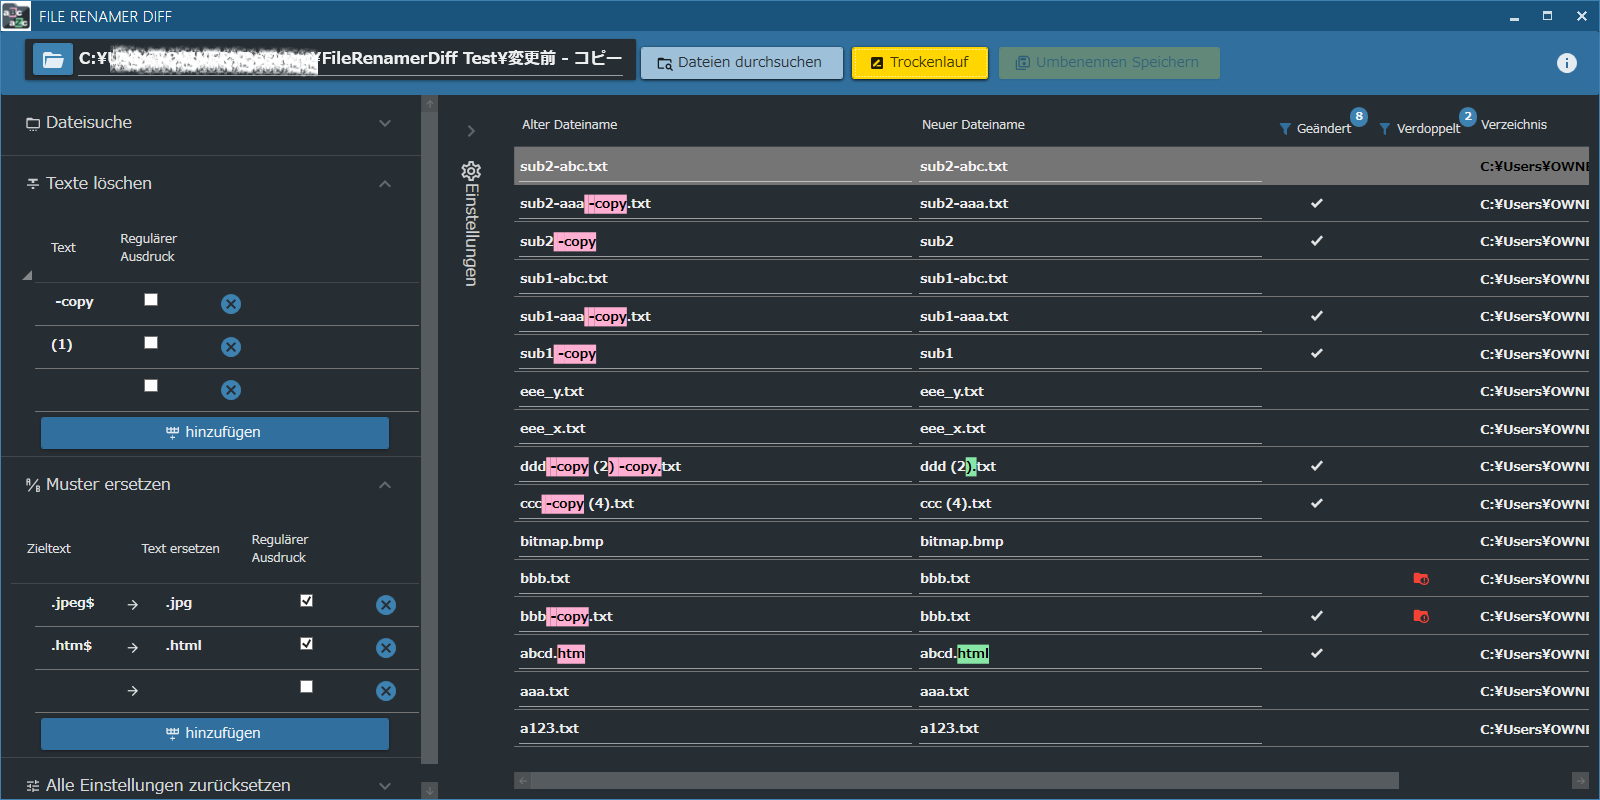
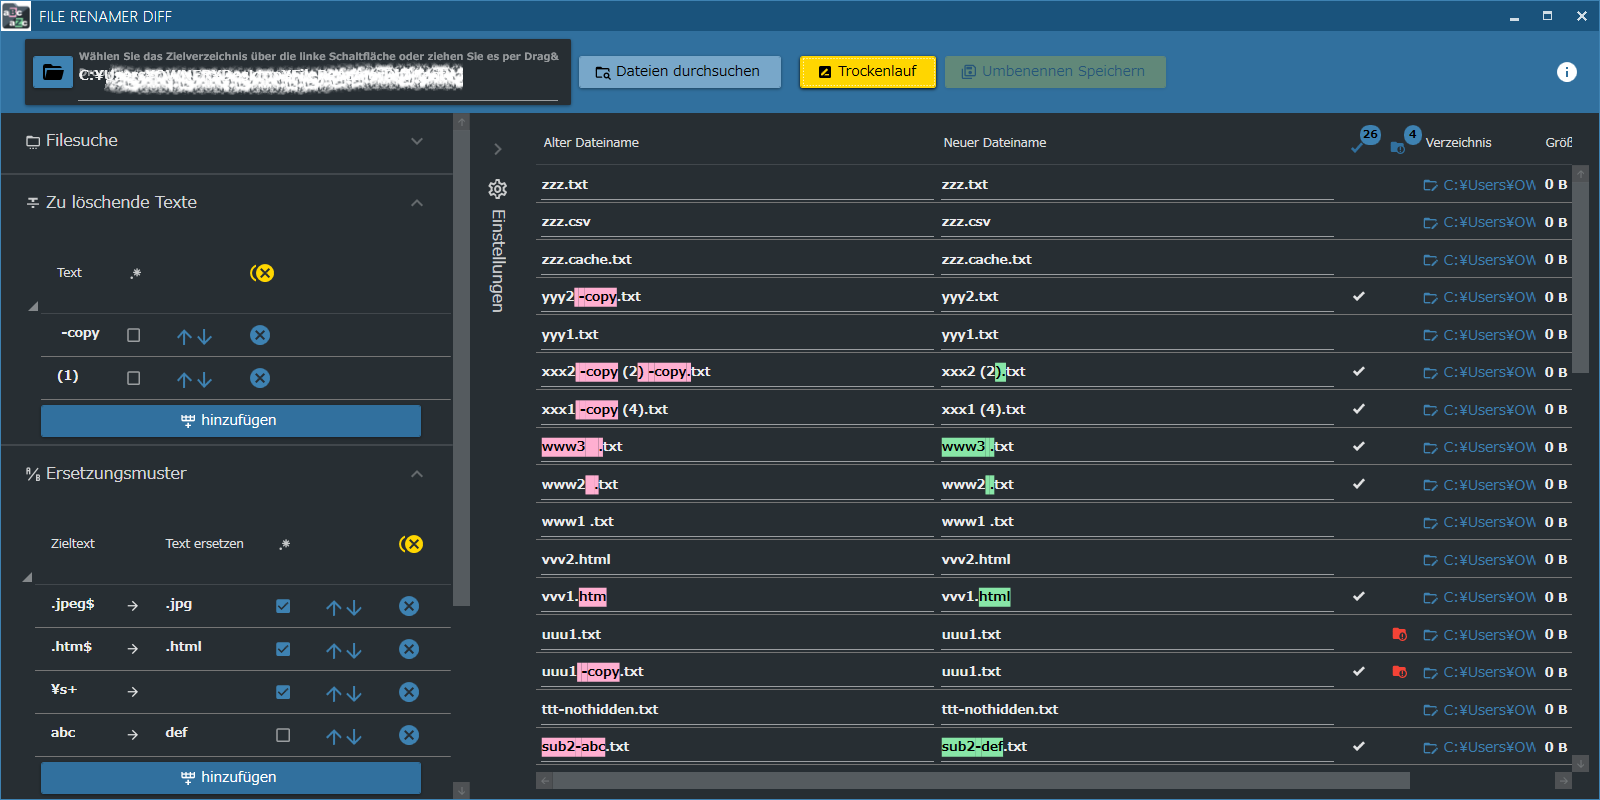
スクリーンショットを修正、ReadMeにテーマ色切り替えを追加

diff --git a/README.md b/README.md
@@ -4,7 +4,7 @@ A File Renamer App featuring a difference display before and after the change fo
 
 # Screen Shot
 
-![icon](./images/screenshot1.png)
+![icon](./images/screenshot_en.png)
 
 # Features
 
@@ -29,6 +29,14 @@ A File Renamer App featuring a difference display before and after the change fo
 - Germany (machine translation)
 - Russia (machine translation)
 - Chinese (machine translation)
+
+
+
+## Light / Dark Theme Switching
+
+<img src=images/screenshot_Dark-Light.png width=550px>
+
+
 
 # Download
 
